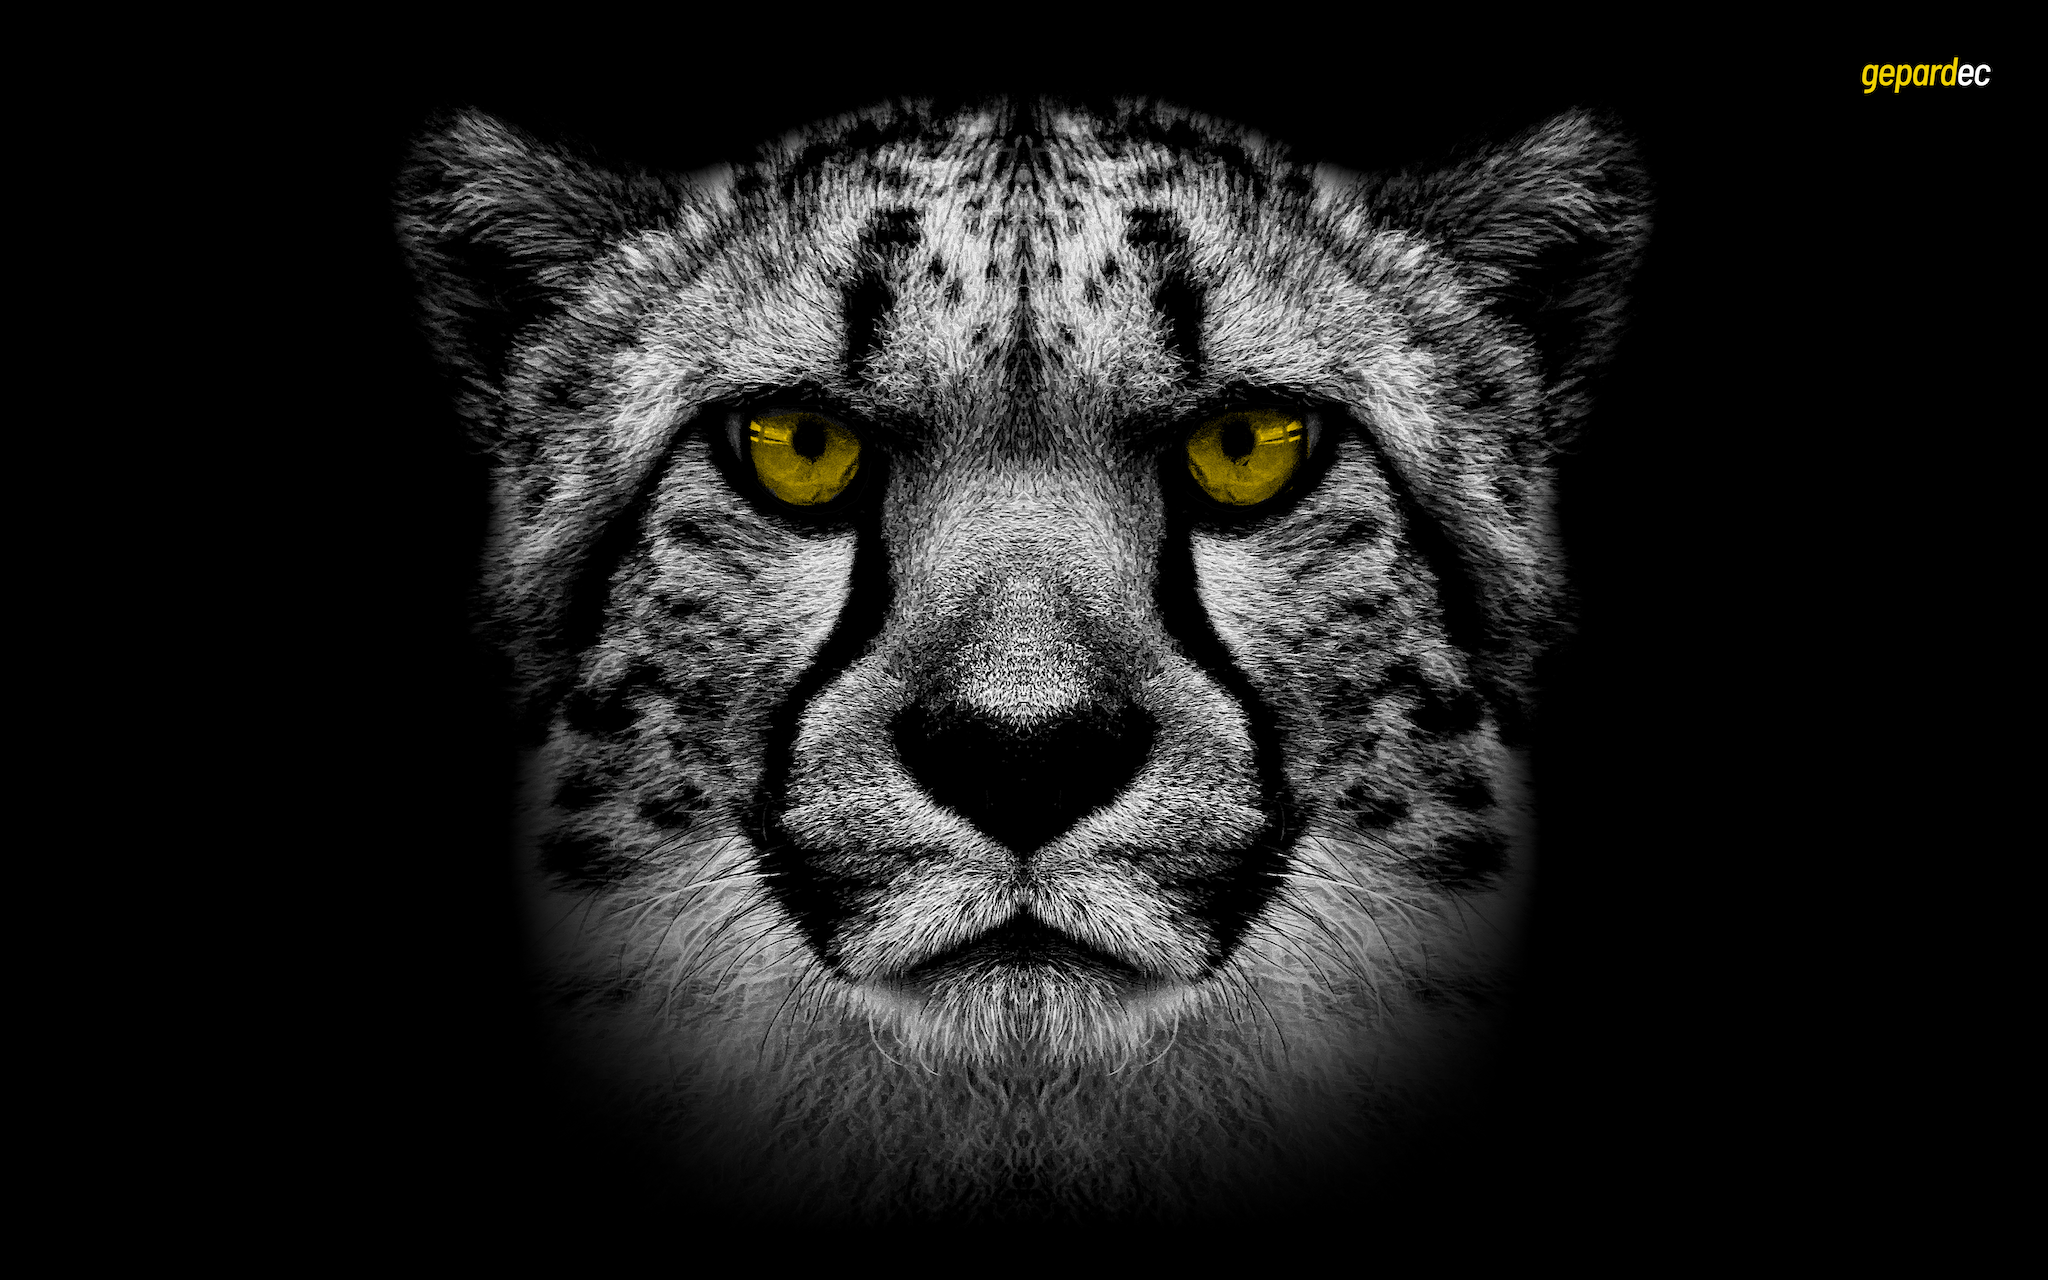
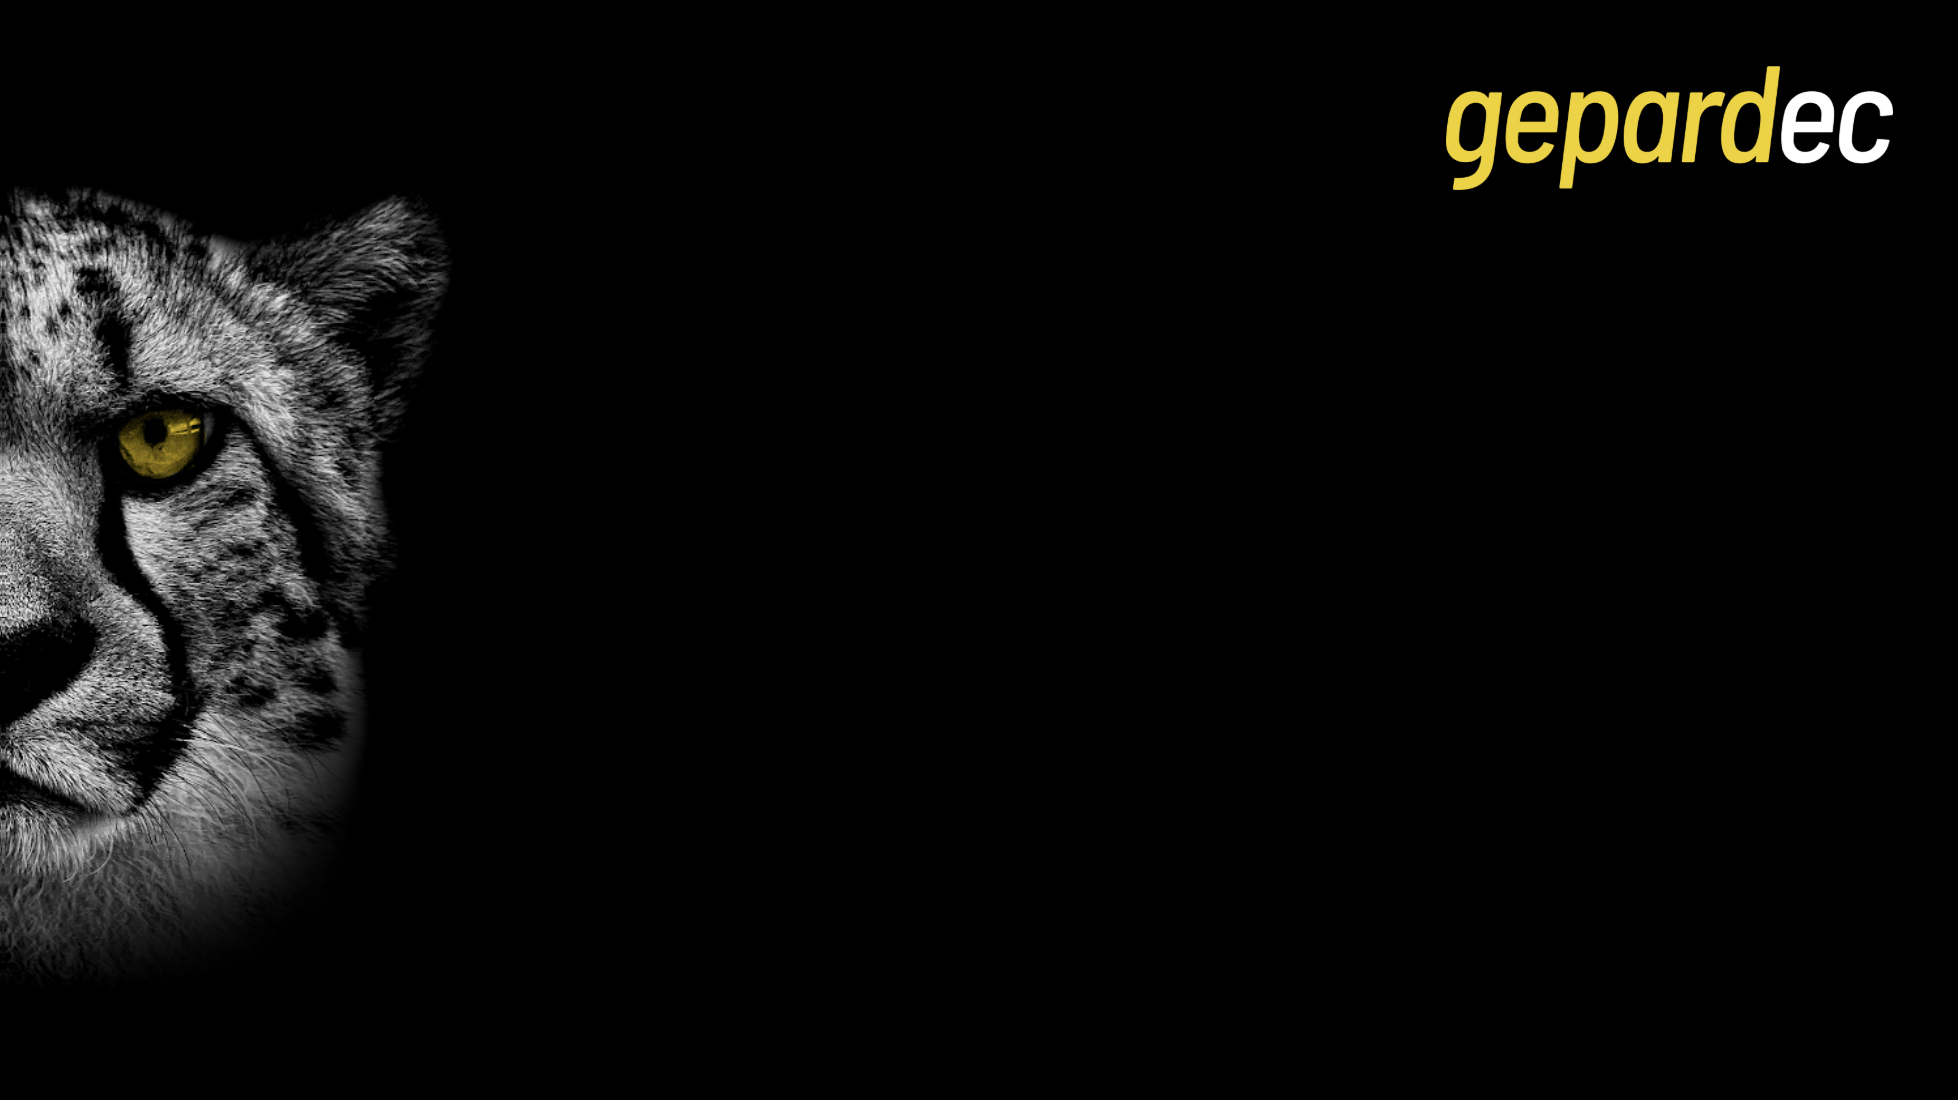
feature/theme updated background image

diff --git a/src/main/resources/theme/gepardec/login/resources/css/style.css b/src/main/resources/theme/gepardec/login/resources/css/style.css
@@ -1,6 +1,8 @@
 body {
     background-image: url('../img/hintergrundbilder_gepardec_super_small.png');
     background-size: cover;
+    background-repeat: no-repeat;
+    background-attachment: fixed;
     height: 100%;
 }
 
